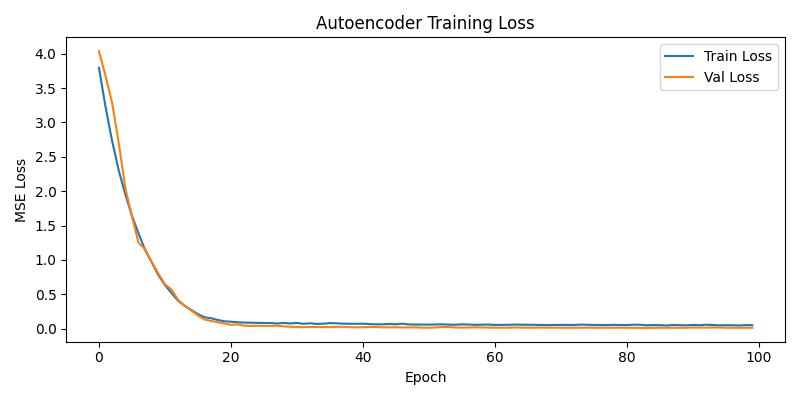
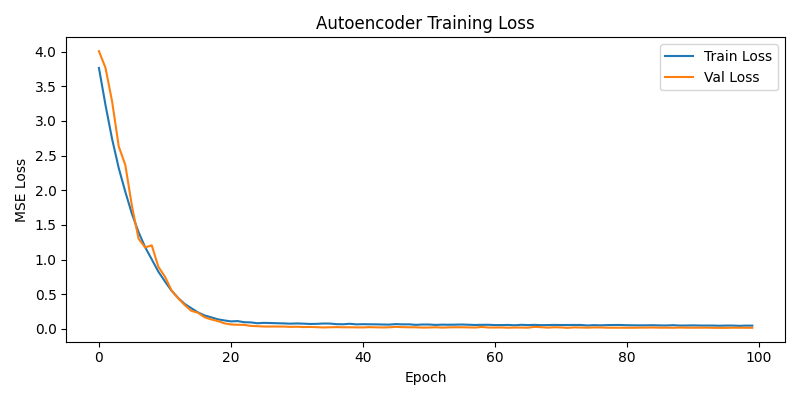
민감도 조정

diff --git a/config.py b/config.py
@@ -44,8 +44,8 @@ DISTRACTION_THRESHOLD_SEC: float = 10.0
 ALERT_COOLDOWN_SEC: float = 60.0
 EAR_THRESHOLD: float = 0.20
 MAR_THRESHOLD: float = 0.60
-HEADPOSE_YAW_THRESHOLD_DEG: float = 20.0
-HEADPOSE_PITCH_THRESHOLD_DEG: float = 15.0
+HEADPOSE_YAW_THRESHOLD_DEG: float = 35.0
+HEADPOSE_PITCH_THRESHOLD_DEG: float = 25.0
 
 
 # --- Model input dims (locked by MediaPipe) ---------------------------
